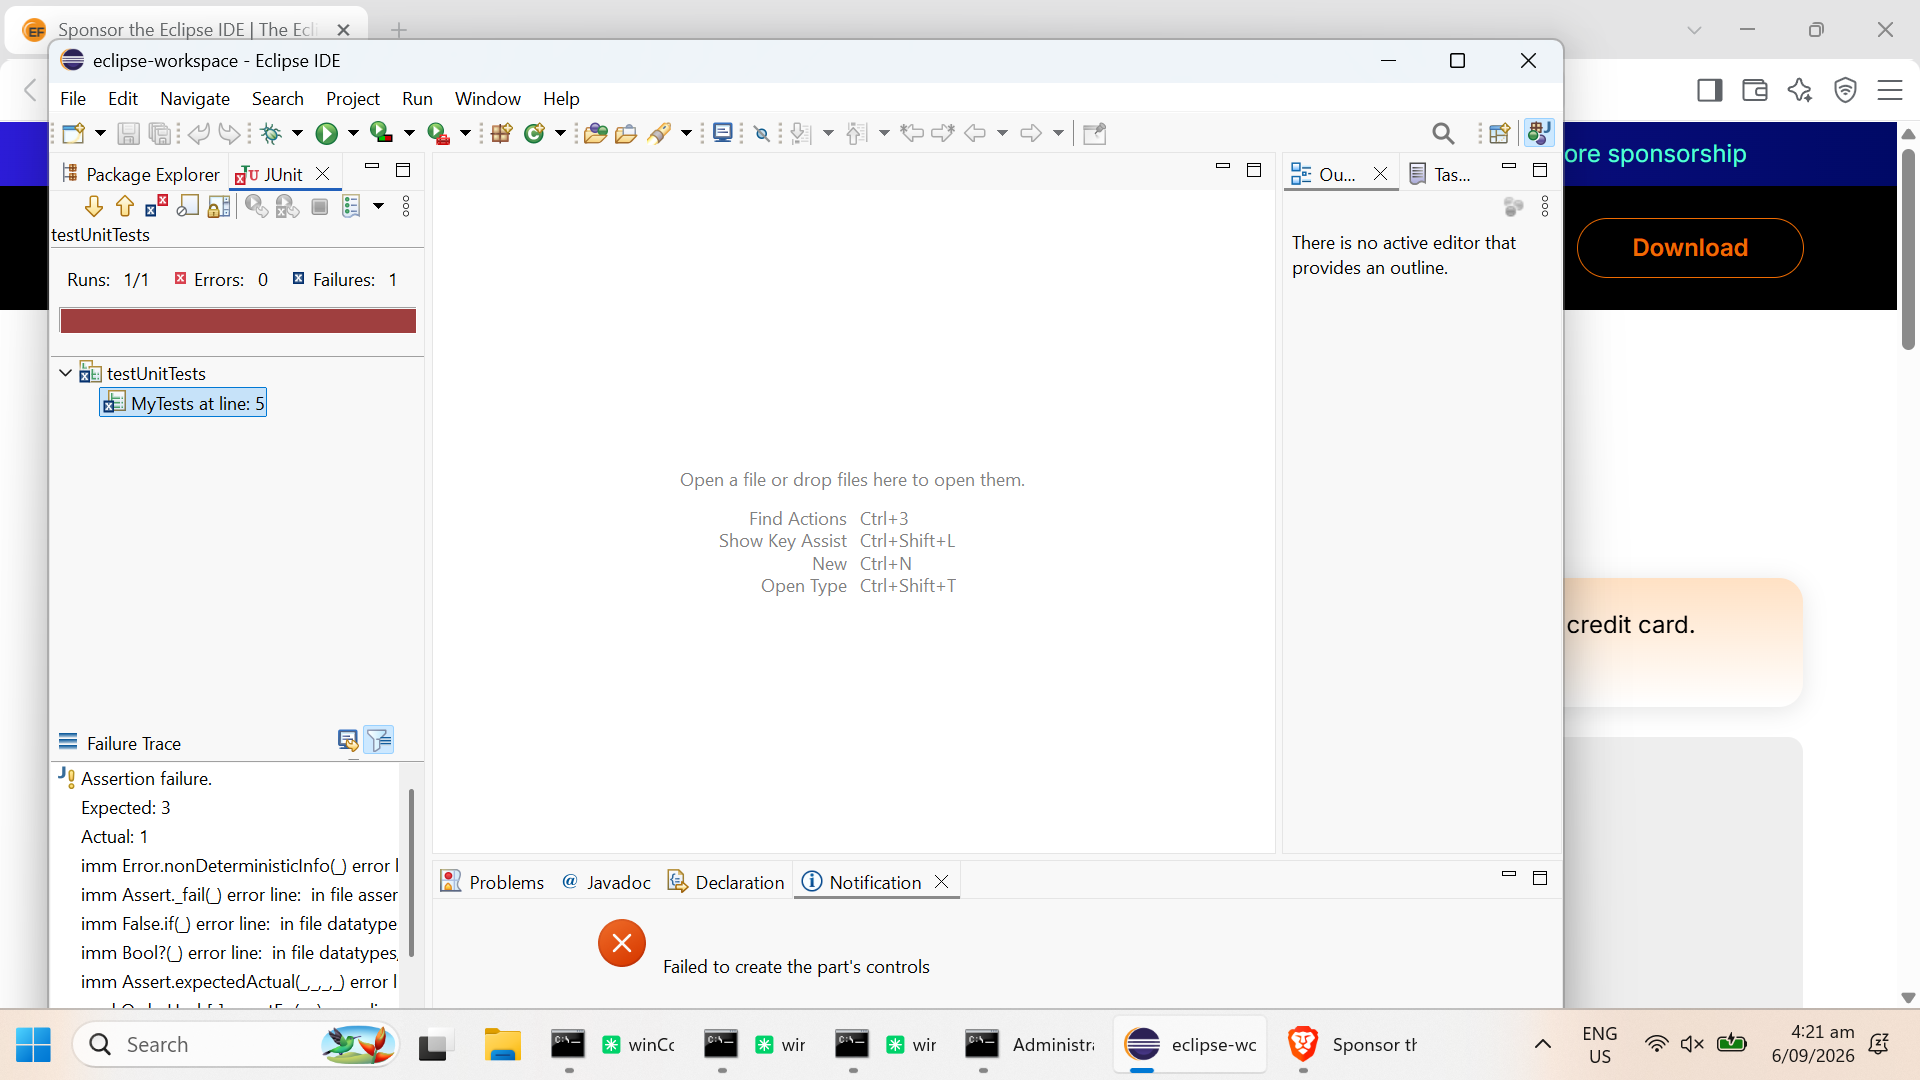
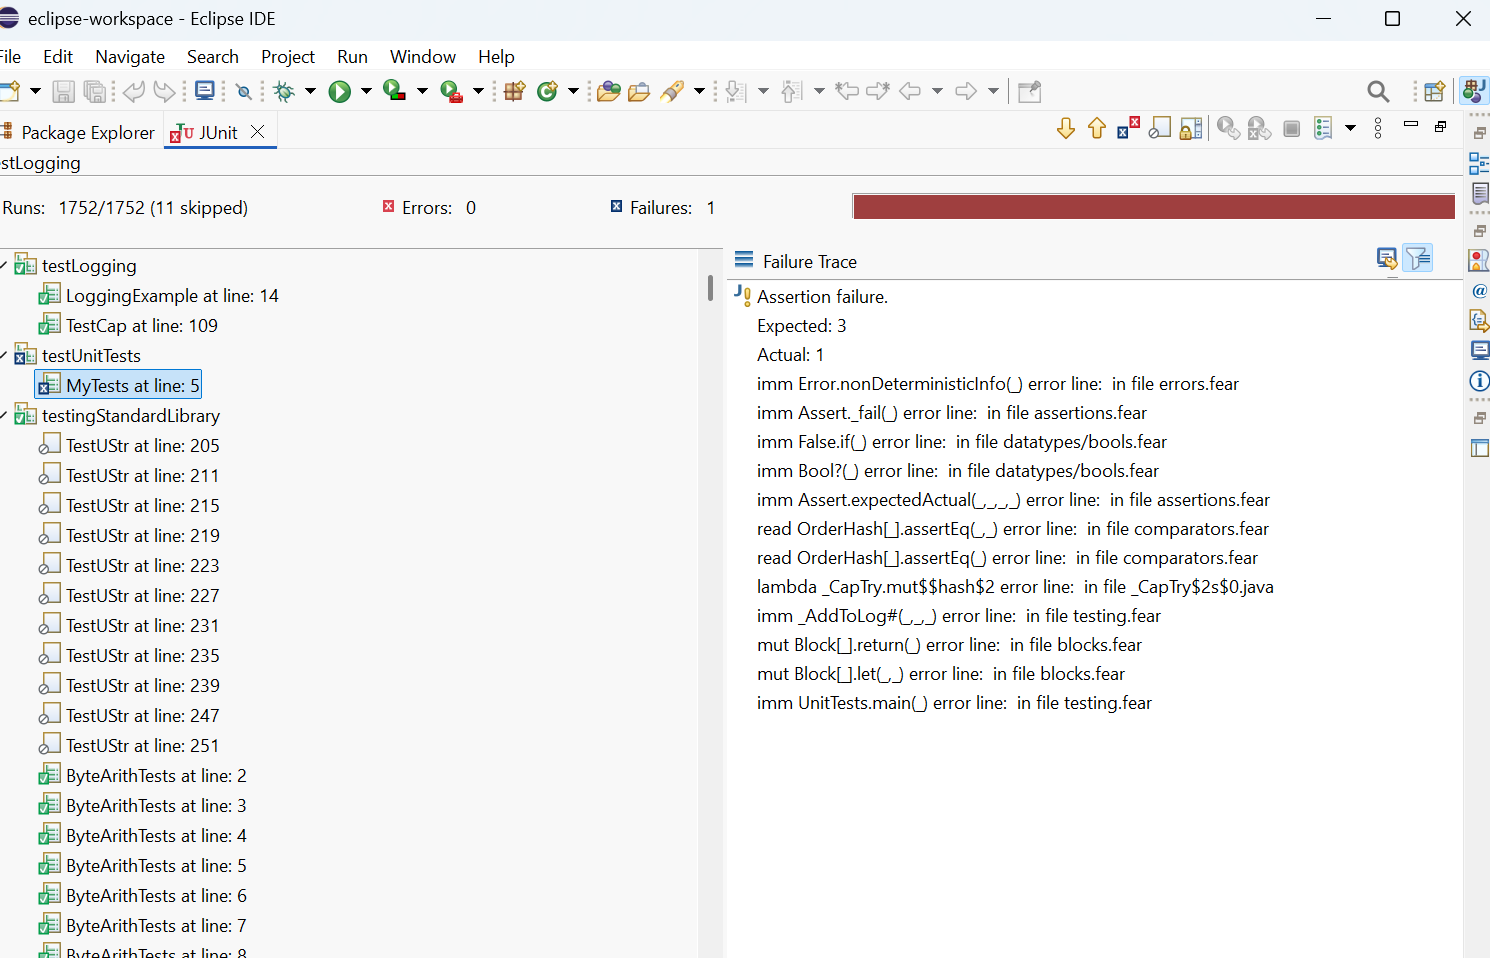
Consolidate eclipse-tests page to reflect the single-file JUnit report
Coordinator PR #94 replaces the three per-project TEST-*.xml files from
#90 with one accumulating all_auto_tests.xml. Update the writeup, zip
(patch + standalone converter + README), and screenshots to match: one
Import... shows every project in one tree instead of three separate runs.

Claude-Session: https://claude.ai/code/session_01Vd7Ae8LfSm81fqxgASchza

diff --git a/fearless/eclipse-tests/index.html b/fearless/eclipse-tests/index.html
@@ -69,7 +69,7 @@
 <body>
 <main>
   <h1>Fearless tests in Eclipse's JUnit view</h1>
-  <p class="lede">A small, verified way to see every individual Fearless-level <code>.check</code>/<code>.test</code> &mdash; not just one bulk pass/fail per project &mdash; as real entries in Eclipse's own JUnit view. Published 2026-09-06.</p>
+  <p class="lede">A small, verified way to see every individual Fearless-level <code>.check</code>/<code>.test</code> &mdash; not just one bulk pass/fail per project &mdash; as real entries in Eclipse's own JUnit view, all from a single report file. Published 2026-09-06, updated the same day to accumulate into one file instead of one per project.</p>
 
   <h2>What already exists</h2>
   <p>
@@ -115,35 +115,48 @@ Assertion failure.
     A small, test-only change to <code class="file">RunIntegration.java</code>: after each Fearless
     project runs, find the newest <code>unit_test_log*.log</code> for that project, strip the internal
     <code>PLAN|...</code> planning lines (turning any <code>PLAN|DISABLED|...</code> line into a
-    <code>&lt;testcase&gt;...&lt;skipped/&gt;&lt;/testcase&gt;</code> entry first), wrap what is left in a
-    <code>&lt;testsuite name="…" tests="…" failures="…" errors="0"&gt;</code> root, and write it to
-    <code class="file">Coordinator/.out/eclipse-junit-xml/TEST-&lt;project&gt;.xml</code>. This runs as a
+    <code>&lt;testcase&gt;...&lt;skipped/&gt;&lt;/testcase&gt;</code> entry first), and wrap what is left in a
+    <code>&lt;testsuite name="…" tests="…" failures="…" errors="0"&gt;</code> block. Every project's block
+    accumulates &mdash; in a plain in-memory list, across the run &mdash; into one
+    <code>&lt;testsuites&gt;</code>-wrapped file at
+    <code class="file">Coordinator/.out/eclipse_junit_xml/all_auto_tests.xml</code>, rewritten each time a
+    new project's results come in. Nothing hardcodes which projects report: whatever runs
+    <code>base.UnitTests</code> lands in that same file, including a project added tomorrow. This runs as a
     side effect of the existing <code>@Test</code> methods, so it happens automatically every time "all
     tests" run &mdash; the console-launcher script or Eclipse's own runner, no extra step to remember.
   </p>
   <p>
     That XML is exactly the format Eclipse's JUnit view can <strong>import</strong> as a full test-run
     session: open the JUnit view, click the small dropdown beside the history-clock toolbar icon, choose
-    <strong>Import…</strong>, and pick the file. Eclipse rebuilds the whole run as if it had just executed
-    it &mdash; a real tree with one node per Fearless-level check, individually green/red/skipped, with
-    complete failure detail for anything red.
+    <strong>Import…</strong>, and pick the one file. Eclipse rebuilds the whole run as if it had just
+    executed it &mdash; a real tree with one top-level node per project and one leaf per Fearless-level
+    check underneath it, individually green/red/skipped, with complete failure detail for anything red.
   </p>
 
   <h2>Verified, concretely</h2>
   <p>
-    Built and run for real: a fresh portable Eclipse 2026-06 ("Eclipse IDE for Java Developers",
+    Built and run for real, twice. First pass (the original <a href="https://github.com/FearlessLang/Coordinator/pull/90">PR #90</a>): a fresh
+    portable Eclipse 2026-06 ("Eclipse IDE for Java Developers",
     <code>eclipse-java-2026-06-R-win32-x86_64.zip</code>), a Java project pointed at a real
     <code>Coordinator</code> checkout, compiled clean (0 errors) under Eclipse's own compiler at
     language level 21, then the actual test suite run to produce real XML reports, then imported into
-    the JUnit view by hand.
+    the JUnit view by hand &mdash; one file at a time, as described below at the time.
+  </p>
+  <p>
+    Second pass (the accumulation change, <a href="https://github.com/FearlessLang/Coordinator/pull/94">PR #94</a>): reused that same Eclipse
+    install and workspace, reran the full Coordinator suite via the console-launcher script, confirmed
+    the resulting <code>all_auto_tests.xml</code> parses as one well-formed <code>&lt;testsuites&gt;</code>
+    document (4 <code>&lt;testsuite&gt;</code> blocks, 1752 <code>&lt;testcase&gt;</code>, 1
+    <code>&lt;failure&gt;</code>, 11 <code>&lt;skipped&gt;</code> &mdash; matching the per-project counts
+    exactly), then imported that one file into the JUnit view.
   </p>
   <figure>
-    <img class="shot" src="junit-view-passing.png" alt="Eclipse JUnit view showing 1734 of 1734 Fearless-level tests, 11 correctly skipped, all others green">
-    <figcaption>testingStandardLibrary imported: 1734 individual Fearless-level checks, each its own node. The 11 <code>TestUStr</code> entries with a skip icon are <code>.disabledTest</code>/<code>.disabledCheck</code> in the source &mdash; everything else is green.</figcaption>
+    <img class="shot" src="junit-view-passing.png" alt="Eclipse JUnit view showing one imported run with four top-level project nodes and 1752 of 1752 Fearless-level tests, 11 correctly skipped">
+    <figcaption>One Import…, four projects: <code>testLogging</code>, <code>testUnitTests</code>, <code>testingStandardLibrary</code> and <code>testAssets</code> all show up as top-level nodes in the same imported run, 1752 individual Fearless-level checks total. The 11 <code>TestUStr</code> entries with a skip icon are <code>.disabledTest</code>/<code>.disabledCheck</code> in the source.</figcaption>
   </figure>
   <figure>
-    <img class="shot" src="junit-view-failure.png" alt="Eclipse JUnit view showing one failed test with expected/actual and a Fearless stack trace in the Failure Trace pane">
-    <figcaption>testUnitTests imported (the one project whose job is to fail): a real red node, with Eclipse's own Failure Trace pane showing the exact expected/actual and Fearless stack trace.</figcaption>
+    <img class="shot" src="junit-view-failure.png" alt="Eclipse JUnit view showing one failed test with expected/actual and a Fearless stack trace in the Failure Trace pane, alongside the other three projects in the same tree">
+    <figcaption><code>testUnitTests</code>' <code>MyTests</code> (the one project whose job is to fail) still shows a real red node with Eclipse's own Failure Trace pane giving the exact expected/actual and Fearless stack trace &mdash; now sitting in the same tree as the other three projects instead of a separate imported run.</figcaption>
   </figure>
   <p>
     Also confirmed: Eclipse's JUnit view literally offers <strong>JUnit 6</strong> as a test-runner kind
@@ -158,21 +171,22 @@ Assertion failure.
 
   <h2>How to apply it</h2>
   <ol class="steps">
-    <li>Land <a href="https://github.com/FearlessLang/Coordinator/pull/90">pull request #90</a> against <code>FearlessLang/Coordinator</code> (or apply <code>eclipse-junit-xml-reports.patch</code> from the zip below by hand to your own checkout: <code>git apply eclipse-junit-xml-reports.patch</code> from inside <code>Coordinator/</code>).</li>
-    <li>Rebuild and run tests exactly as you already do &mdash; the console-launcher script, or Eclipse's own <em>Run As &gt; JUnit Test</em>. Three files appear under <code class="file">Coordinator/.out/eclipse-junit-xml/</code>: <code>TEST-testAssets.xml</code>, <code>TEST-testUnitTests.xml</code>, <code>TEST-testingStandardLibrary.xml</code>.</li>
+    <li>Land <a href="https://github.com/FearlessLang/Coordinator/pull/94">pull request #94</a> against <code>FearlessLang/Coordinator</code> (it builds on #90, already merged) &mdash; or apply <code>eclipse-junit-xml-reports.patch</code> from the zip below by hand to your own checkout: <code>git apply eclipse-junit-xml-reports.patch</code> from inside <code>Coordinator/</code>.</li>
+    <li>Rebuild and run tests exactly as you already do &mdash; the console-launcher script, or Eclipse's own <em>Run As &gt; JUnit Test</em>. One file appears: <code class="file">Coordinator/.out/eclipse_junit_xml/all_auto_tests.xml</code>, holding a <code>&lt;testsuite&gt;</code> block for every project that produced one.</li>
     <li>In Eclipse: <strong>Window &gt; Show View &gt; Other… &gt; Java &gt; JUnit</strong> if the view is not already open.</li>
-    <li>Click the small &#9660; dropdown next to the clock-with-arrow ("Test Run History") icon in the JUnit view's toolbar, choose <strong>Import…</strong>, and pick one of the three files.</li>
+    <li>Click the small &#9660; dropdown next to the clock-with-arrow ("Test Run History") icon in the JUnit view's toolbar, choose <strong>Import…</strong>, and pick <code>all_auto_tests.xml</code>. Next time you add a project with Fearless-level tests, it just shows up in this same file &mdash; nothing new to pick.</li>
     <li>Browse the imported run like any other: expand nodes, click a red one to see its Failure Trace.</li>
   </ol>
   <p>
     Prefer not to touch Coordinator at all yet, or want this for a Fearless project that is not one of
-    the three built-in integration tests? The zip also has a small, dependency-free, single-file Java
-    program that does the same conversion standalone:
+    the built-in integration tests? The zip also has a small, dependency-free, single-file Java
+    program that does the same conversion standalone, merging into the same accumulating file across
+    separate runs (rerunning a project replaces just that project's block):
   </p>
   <pre>java FearlessJUnitXml.java &lt;fearlessProjectRoot&gt; [suiteName] [outDir]
 # example
 java FearlessJUnitXml.java C:\myFearlessProject myProject
-# -&gt; C:\myFearlessProject\.out\eclipse-junit-xml\TEST-myProject.xml</pre>
+# -&gt; C:\myFearlessProject\.out\eclipse_junit_xml\all_auto_tests.xml</pre>
 
   <h2>The compromise, plainly</h2>
   <div class="card">
@@ -182,6 +196,7 @@ java FearlessJUnitXml.java C:\myFearlessProject myProject
       <li>Full failure detail (expected/actual/stack trace) exactly as Fearless produced it, browsable the same way as any other JUnit failure.</li>
       <li>Zero changes to StandardLibrary or the Fearless language itself &mdash; the format it already produces was already this close to standard JUnit XML.</li>
       <li>Generated automatically as part of the run you already do, in both the two flows this codebase already supports (script or Eclipse).</li>
+      <li>One file to Import…, regardless of how many projects report &mdash; today's four or a fifth added next month, with no list of project names to maintain anywhere.</li>
     </ul>
   </div>
   <div class="card">
@@ -190,7 +205,7 @@ java FearlessJUnitXml.java C:\myFearlessProject myProject
       <li>A single seamless live view. Running "all tests" and seeing the granular results is two actions, not one &mdash; run, then Import&hellip;. Eclipse has no stock way to stream an externally-produced report into a launch's live tree.</li>
       <li>Jump-to-source from an imported node. These are <code>.fear</code> files, not <code>.java</code> &mdash; Eclipse correctly reports "Test class not found in selected project" on double-click. No worse than today's plain console output, just not better either.</li>
       <li>Coverage of Fearless projects that don't use <code>base.UnitTests</code> at all &mdash; nothing to report for those, so nothing is written (not a bug, there is genuinely no test data).</li>
-      <li>A report that reflects anything other than the <em>most recent</em> run of a given project.</li>
+      <li>A file that reflects anything other than the <em>most recent</em> run of each project &mdash; that project's block is replaced wholesale next time it runs, not merged check-by-check.</li>
     </ul>
     <p style="margin:0.8rem 0 0; color:var(--muted); font-size:0.9rem;">
       The more ambitious version of this &mdash; a real custom <code>org.junit.platform.engine.TestEngine</code>
@@ -207,12 +222,12 @@ java FearlessJUnitXml.java C:\myFearlessProject myProject
     <li>
       <a href="fearless-eclipse-junit-tests.zip">fearless-eclipse-junit-tests.zip</a>
       <span class="meta">The patch for RunIntegration.java, the standalone FearlessJUnitXml.java converter, and a short README.</span>
-      <span class="hash" id="zip-hash">SHA-256 c4d436abd7b819245bcb7f6b0b090a6510c087219b73473dcdd83f82baca3e18</span>
+      <span class="hash" id="zip-hash">SHA-256 77a8515ec8e574a71e5ad408764abcd7eb93c9d6934122d5489b570563184103</span>
     </li>
   </ul>
 
   <p><a href="../">&larr; back to Fearless downloads</a></p>
-  <footer>Verified against a real portable Eclipse 2026-06 install on this machine. Maintained by the Claude agent on marcoautomation.</footer>
+  <footer>Verified against a real portable Eclipse 2026-06 install on this machine, both for the original per-project reports and this page's accumulating-file update. Maintained by the Claude agent on marcoautomation.</footer>
 </main>
 </body>
 </html>
